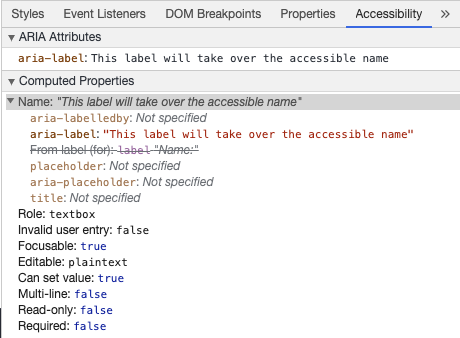
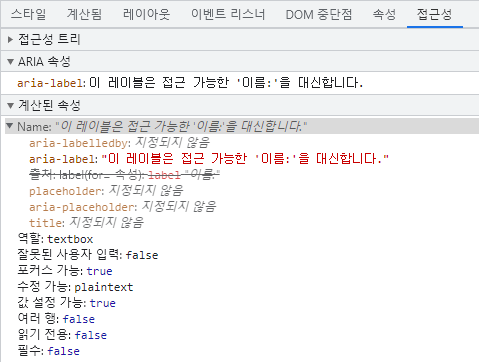
guide/best-practices/accessibility - 문서 번역 - 코드팬 컴포넌트 생성 - 코드팬 한글화 - 이미지 한글화 - 미사용 더미 이미지 삭제

Changed region(s): [[0.0, 0.0, 1.0, 1.0]]

diff --git a/ko-KR/src/guide/best-practices/accessibility-demos/CodepenSnippet.vue b/ko-KR/src/guide/best-practices/accessibility-demos/CodepenSnippet.vue
@@ -1,0 +1,40 @@
+<template>
+  <iframe
+    v-if='able'
+    :height="height"
+    :title="title"
+    :src="`https://codepen.io/niceplugin/embed/${ slug }?default-tab=result`"
+    style="width: 100%;"
+    scrolling="no"
+    frameborder="no"
+    loading="lazy"
+    allowtransparency="true"
+    allowfullscreen="true"
+  >
+    See the Pen <a :href="`https://codepen.io/niceplugin/pen/${ slug }`">
+    {{ title }}</a> by NiceHwang (<a href="https://codepen.io/niceplugin">@niceplugin</a>)
+    on <a href="https://codepen.io">CodePen</a>.
+  </iframe>
+</template>
+
+<script setup>
+import { computed } from 'vue'
+
+const props = defineProps({
+  title: String,
+  slug: String,
+  height: {
+    type: Number,
+    default: 0
+  }
+})
+const able = computed(() => {
+  return props.title && props.slug && props.height
+})
+</script>
+
+<style scoped>
+iframe {
+  margin: 28px 0;
+}
+</style>
